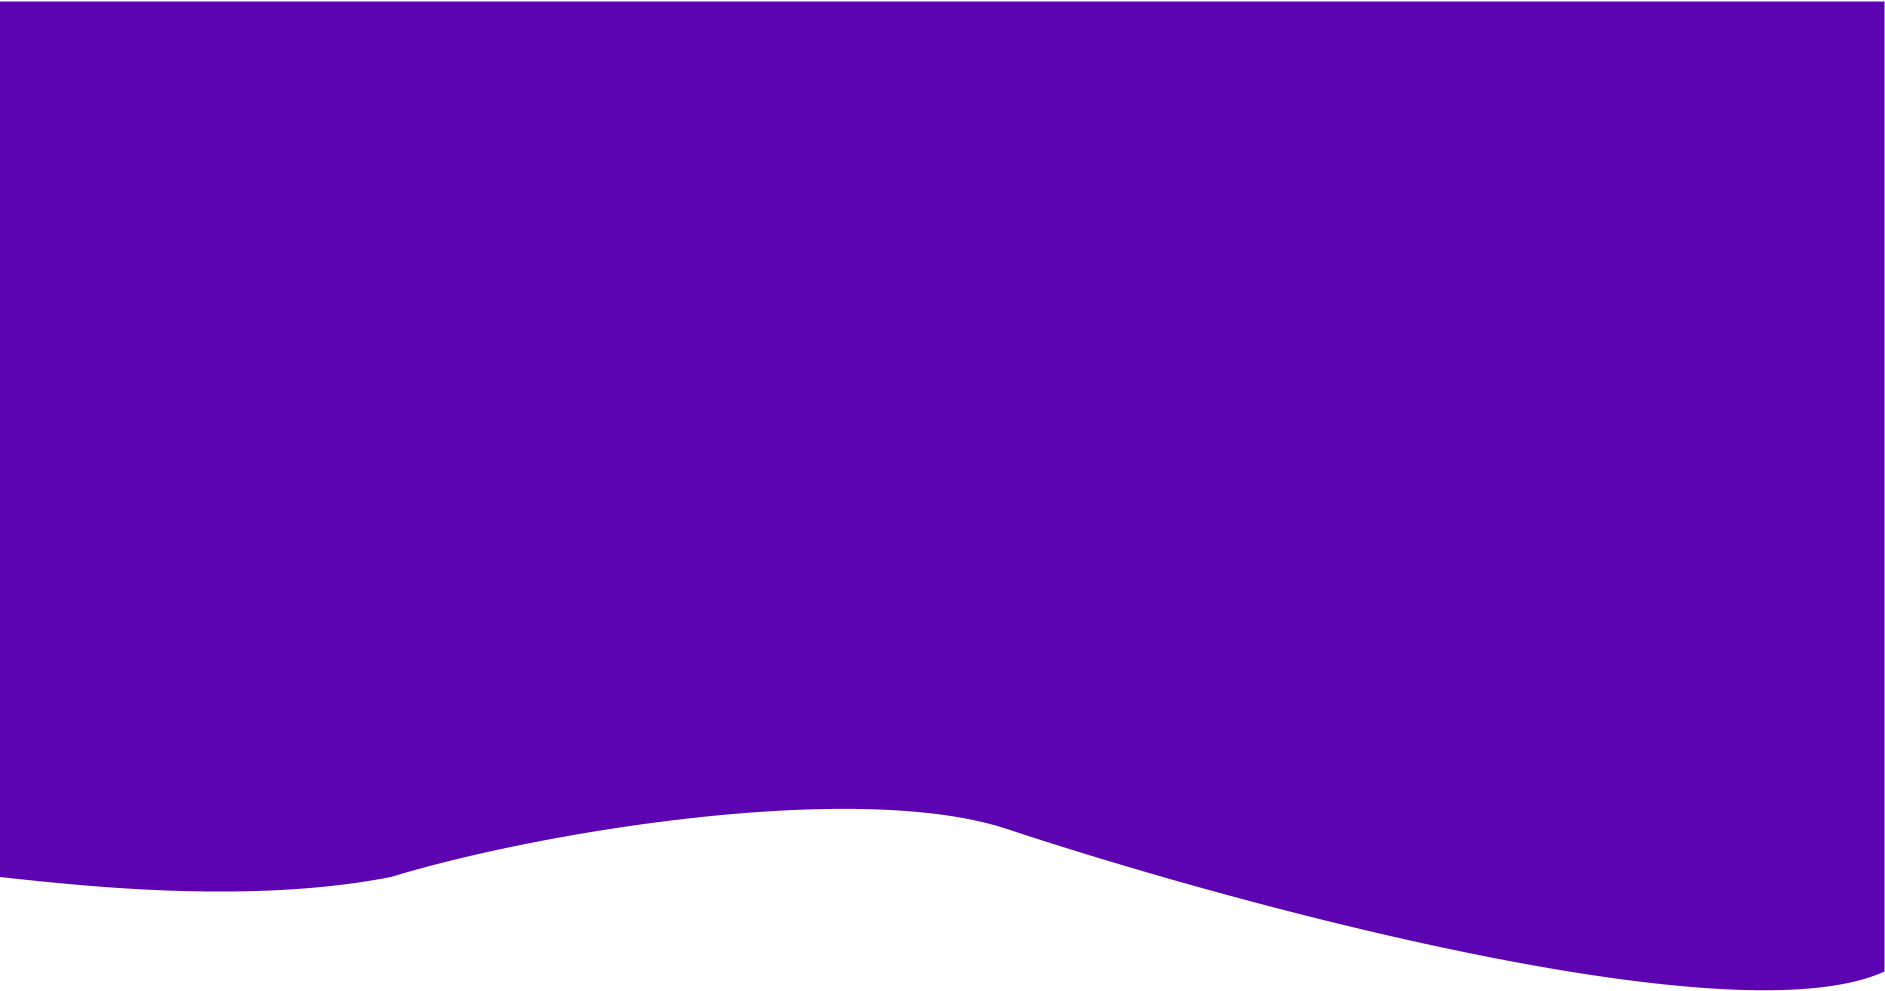
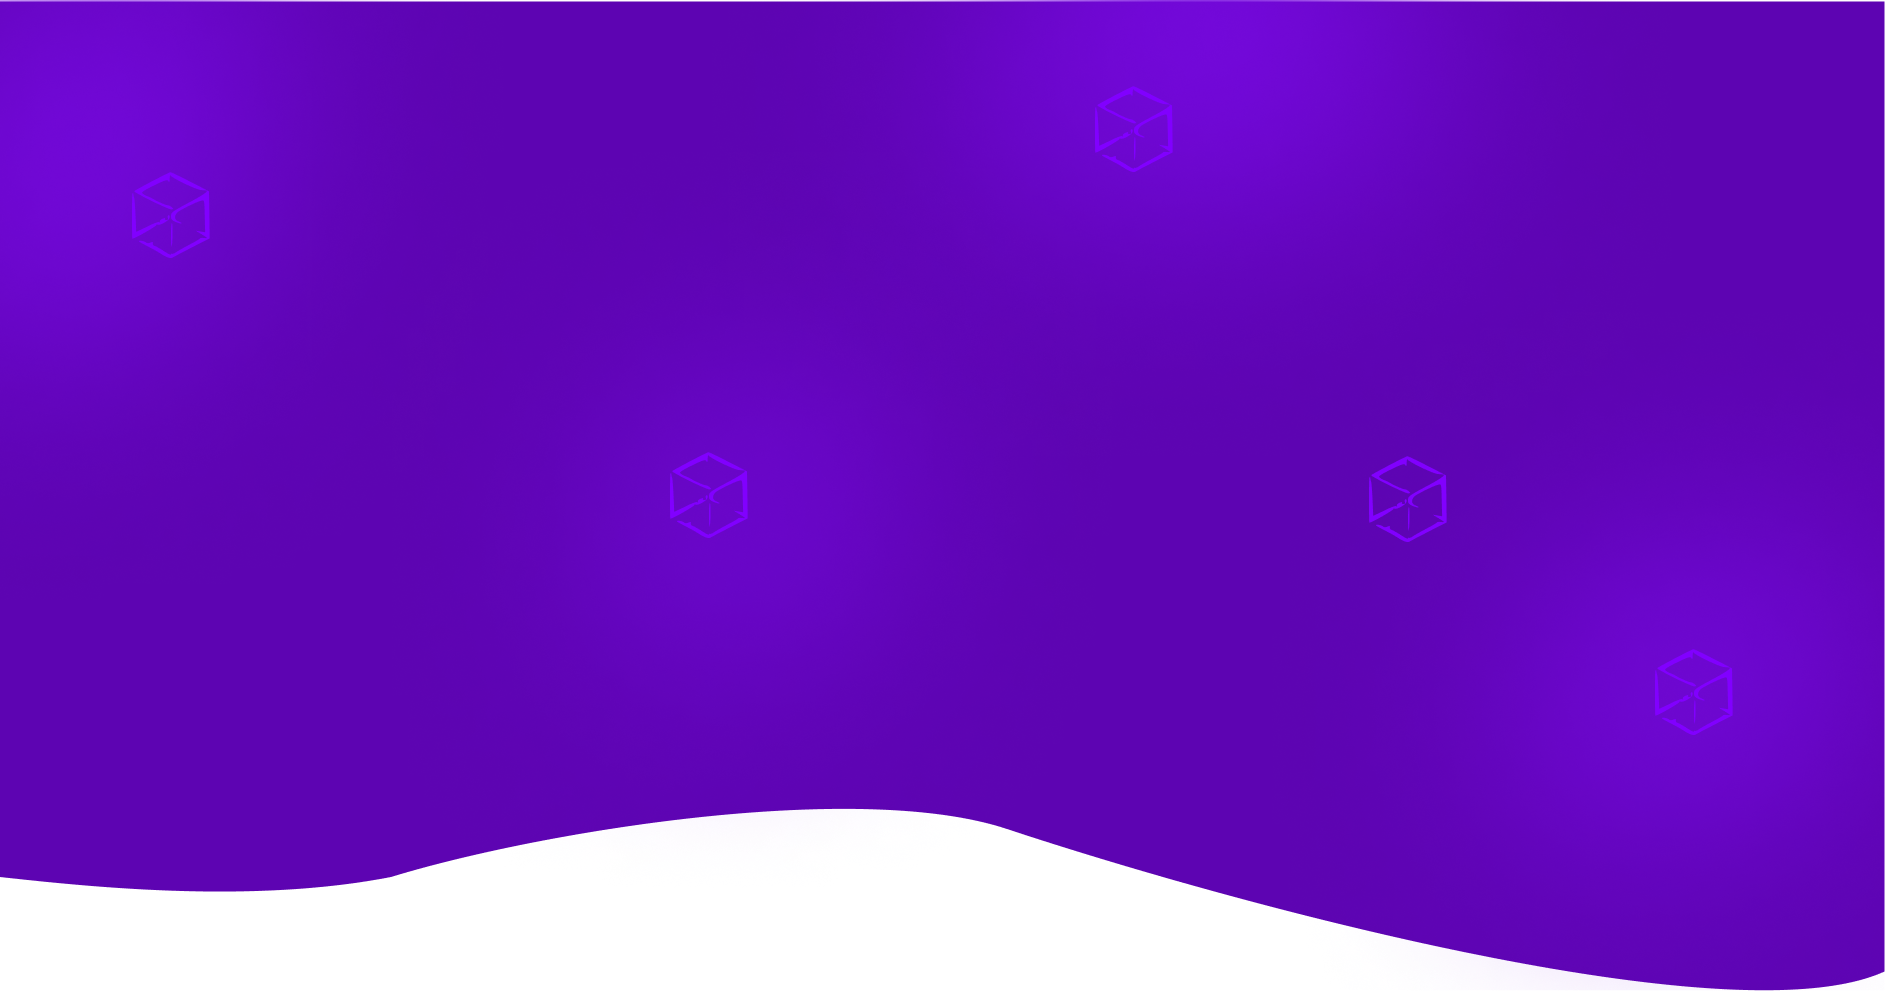
footer added

diff --git a/src/components/Shared/Footer/ContactInfo.jsx b/src/components/Shared/Footer/ContactInfo.jsx
@@ -7,29 +7,40 @@ const ContactInfo = () => {
     <div className="">
       <div className="mb-10">
         <Link href="/">
-          <span className="text-xl font-bold text-primary">Viscart</span>
+          <span className="text-4xl font-bold text-primary">Viscart</span>
         </Link>
       </div>
-      <h3 className="text-lg font-bold mb-6">Need help?</h3>
-      <div className="flex items-center gap-2 -mt-2">
-        <FaLocationDot className="text-primary" />
+      <h3 className="text-lg font-bold mb-6">Contact Us</h3>
+      <Link
+        href={
+          "https://www.google.com/maps/place/Vitasoft+Solutions/@23.7025149,90.4366896,17z/data=!3m1!4b1!4m6!3m5!1s0x4a175d275fafac69:0xd871af27aa650ae7!8m2!3d23.70251!4d90.4392645!16s%2Fg%2F11vzs8pm_b?coh=219816&entry=tts&g_ep=EgoyMDI0MDgwNy4wKgBIAVAD"
+        }
+        target="_blank"
+        className="flex items-center gap-2 -mt-2"
+      >
+        <FaLocationDot className="text-primary text-2xl" />
         <p className="text-grey-400">
           <span className="font-semibold">Address: </span>
-          Kretaa Address
+          Corporate office 677, Brothers Tower, East Dholaipar, Kadamtoli,
+          Dhaka-1236
         </p>
-      </div>
-      <div className="flex items-center gap-2 mt-2">
+      </Link>
+      <Link href="tel:+8801623653505" className="flex items-center gap-2 mt-2">
         <FaPhone className="text-primary" />
         <p className="text-grey-400">
-          <span className="font-semibold">Phone:</span> 07xxxxxxxxx
+          <span className="font-semibold">Phone:</span> +880 1623-653505
         </p>
-      </div>
-      <div className="flex items-center gap-2 mt-2">
+      </Link>
+      <Link
+        href="mailto:vitasoftsolution@gmail.com"
+        className="flex items-center gap-2 mt-2"
+      >
         <MdEmail className="text-primary" />
         <p className="text-grey-400">
-          <span className="font-semibold">Email:</span> kretaa@mail.com
+          <span className="font-semibold">Email:</span>{" "}
+          vitasoftsolution@gmail.com
         </p>
-      </div>
+      </Link>
     </div>
   );
 };

diff --git a/src/components/Shared/Footer/Footer.jsx b/src/components/Shared/Footer/Footer.jsx
@@ -4,6 +4,8 @@ import Link from "next/link";
 import { FaFacebook, FaInstagram, FaLinkedin } from "react-icons/fa";
 import { FaSquareXTwitter } from "react-icons/fa6";
 import ContactInfo from "./ContactInfo";
+import footer from "@/assets/images/footer.png";
+import Image from "next/image";
 
 const footerData = [
   {
@@ -19,8 +21,8 @@ const footerData = [
   {
     title: "Required pages",
     links: [
-      { name: "Features", to: "/pricing" },
-      { name: "Pricing", to: "/pricing" },
+      { name: "Features", to: "/" },
+      { name: "Pricing", to: "/" },
       { name: "Help post", to: "/" },
       { name: "Business Growth", to: "/" },
     ],
@@ -38,9 +40,14 @@ const footerData = [
 
 const Footer = () => {
   return (
-    <section className="mb-16 lg:mb-0">
+    <section className="relative bg-[#e6d5f9] lg:bg-transparent">
       <footer className="pt-10">
-        <div className="grid grid-cols-1 sm:grid-cols-2 lg:grid-cols-4 gap-5 md:gap-0 xl:gap-10 items-start justify-center my-container">
+        <Image
+          src={footer}
+          alt="footer"
+          className="w-full absolute -z-10 top-0 bottom-0 h-full lg:h-[550px] hidden lg:block"
+        />
+        <div className="grid grid-cols-1 sm:grid-cols-2 lg:grid-cols-4 gap-5 md:gap-0 xl:gap-10 items-start justify-center my-container lg:mt-32">
           <ContactInfo />
 
           {footerData?.map((item, i) => (

diff --git a/src/components/Shared/Navbar/Navbar.jsx b/src/components/Shared/Navbar/Navbar.jsx
@@ -9,8 +9,8 @@ import { usePathname } from "next/navigation";
 
 const links = [
   { name: "Home", link: "/" },
-  { name: "About Us", link: "/about" },
-  { name: "Contact Us", link: "/contact" },
+  { name: "About Us", link: "/" },
+  { name: "Contact Us", link: "/" },
 ];
 
 const Navbar = () => {
@@ -39,7 +39,7 @@ const Navbar = () => {
         </div>
 
         <div className="hidden md:flex">
-          <Link href="/contact">
+          <Link href="mailto:vitasoftsolution@gmail.com">
             <button className="text-white bg-primary px-10 py-2 rounded-lg font-bold">
               Contact
             </button>
@@ -69,7 +69,7 @@ const Navbar = () => {
                 {link.name}
               </Link>
             ))}
-            <Link href="/contact">
+            <Link href="mailto:vitasoftsolutions@gmail.com">
               <button className="text-white bg-primary px-10 py-2 rounded-lg font-bold">
                 Contact
               </button>

diff --git a/src/components/Pages/Home/CTA.jsx b/src/components/Pages/Home/CTA.jsx
@@ -1,12 +1,10 @@
-import React from "react";
-
 const CTA = () => {
   return (
     <section
       style={{ backgroundImage: `url('/cta.png')` }}
       className="bg-cover bg-no-repeat bg-center my-container text-white my-10 lg:my-20 p-20 lg:p-44 rounded-xl"
     >
-      <div className="lg:px-10 flex flex-col lg:flex-row justify-between items-center gap-10 text-center lg:text-start">
+      <div className="flex flex-col lg:flex-row justify-between items-center gap-10 text-center lg:text-start">
         <h2 className="text-3xl lg:text-5xl font-bold">
           Build Your <span className="text-violet-200">E-Commerce</span> Empire
           <br className="hidden lg:block" /> Today!
